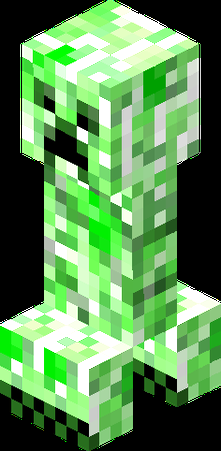
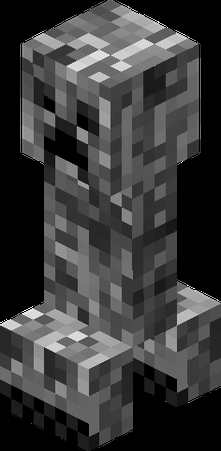
fixes, refactors and integration with front

diff --git a/main.py b/main.py
@@ -1,16 +1,64 @@
-from fastapi import FastAPI
-from fastapi.responses import FileResponse
+from fastapi import FastAPI, APIRouter
+from fastapi.responses import FileResponse, Response
 from brilho_contraste import ajustar_brilho_contraste
-import os
+from escala_cinza import converter_para_escala_de_cinza
+from fastapi.middleware.cors import CORSMiddleware
+import shutil
+
+origins = [
+    "http://localhost:3000",
+    "http://localhost:3001",
+]
 
 app = FastAPI()
 
-image_path = 'image_alterada.png'
+router = APIRouter(prefix="/api")
 
-@app.get("/api/brightness-contrast")
+app.add_middleware(
+    CORSMiddleware,
+    allow_origins=origins,
+    allow_credentials=True,
+    allow_methods=["*"],
+    allow_headers=["*"],
+)
+
+image_path = 'image.png'
+modified_image_path = 'image_alterada.png'
+
+@router.get("/brightness-contrast")
 async def brightness_contrast(brightness: int = 0, contrast: float = 1.0):
-    ajustar_brilho_contraste('image.png', brightness, contrast)
+    try:
+        ajustar_brilho_contraste(modified_image_path, brightness, contrast)
     
-    if os.path.exists(image_path):
-        return FileResponse(image_path, media_type="image/png")
-    return {"error": "File not found!"}
+        return Response()
+    except BaseException as e:
+        print(e)
+        return Response(content="An unexpected error occurred", status_code=500)
+        
+@router.get("/b-and-w")
+async def black_and_white():
+    try:
+        converter_para_escala_de_cinza(modified_image_path)
+        
+        return Response()
+    except BaseException as e:
+        print(e)
+        return Response(content="An unexpected error occurred", status_code=500)
+    
+@router.get("/image")
+async def image():
+    try:
+        return FileResponse(modified_image_path)
+    except BaseException as e:
+        print(e)
+        return Response(content="An unexpected error occurred", status_code=500)
+    
+@router.get("/reset")
+async def reset():
+    try:
+        shutil.copy2(image_path, modified_image_path)
+    except BaseException as e:
+        print(e)
+        return Response(content="An unexpected error occurred", status_code=500)
+    
+app.include_router(router)

diff --git a/brilho_contraste.py b/brilho_contraste.py
@@ -13,8 +13,6 @@ def ajustar_brilho_contraste(caminho: str, brilho: int, contraste: int):
     np.clip(img_array, 0, 255, out=img_array)
     
     imagem_ajustada = Image.fromarray(img_array.astype('uint8'))
-    nome_com_formato = caminho.split('/')[-1]
-    nome, formato = nome_com_formato.split('.')
-    imagem_ajustada.save(f'{nome}_alterada.{formato}')
+    imagem_ajustada.save('image_alterada.png')
     
 ajustar_brilho_contraste('image.png', 10, 2)

diff --git a/escala_cinza.py b/escala_cinza.py
@@ -13,6 +13,6 @@ def converter_para_escala_de_cinza(caminho):
             cinza = (r + g + b) // 3
             imagem_cinza.putpixel((x, y), cinza)
     
-    imagem_cinza.save('image_preto_branco.png')
+    imagem_cinza.save('image_alterada.png')
     
 converter_para_escala_de_cinza('image.png')
